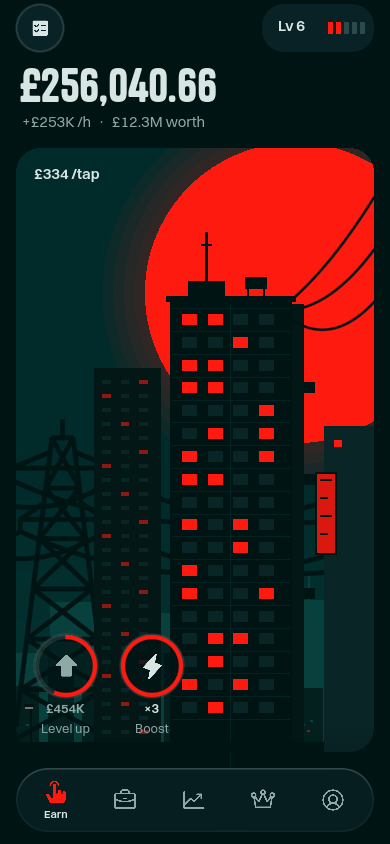
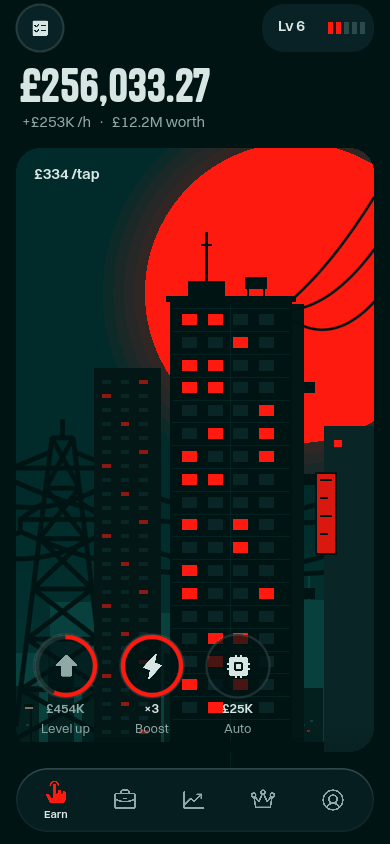
No deal pop-ups; auto clicker on Earn (save v16)
Owner: a deal popped up on every return; add an auto clicker upgrade.
- Deals never auto-show; they wait on the Business tab. Time away no
  longer counts towards the next deal. Pop-ups setting covers news only.
- Auto clicker: 5 levels (25K to 10B), a tap every 2 s down to 0.5 s,
  each worth half a tap, only while playing (pauses 2 min after the last
  touch, so an open phone can't farm). Reset by rebirth. Save v16.
- Robot buys levels under a tenth of cash: 90% day 39.3 (was 38.3).
- Tests: cost, rate, idle pause, v15 migration. All suites pass.

Claude-Session: https://claude.ai/code/session_01G43aEuqkjUy83khniNYyKE

Changed region(s): [[0.5231, 0.7393, 0.6462, 0.8934], [0.3077, 0.0616, 0.5538, 0.1232]]

diff --git a/docs/BALANCE.md b/docs/BALANCE.md
@@ -41,13 +41,14 @@ Companies: 17, sorted by price. New ones fill price gaps (Food trucks, Gym chain
 | Converting coins | sell at the usual 0.5% spread, then buy the other coin; nothing gained, so no loop | `convert_coin()` |
 | Mining | one pool of miners mining one coin you choose (switch free, any time); a miner earns 4% of its price an hour in £ for any coin (pays back in about a day), with no cap tied to income; each miner costs ×1.7 more, 40 max, which keeps mining to roughly 10 to 25% of income | `RIG_*`, `MINE_*` |
 | Head office | ten one-off upgrades: taps ×1.5, deals 25% sooner, away cap 10 h then 12 h, expansions 15% quicker (twice), +1 golden sun a day, locked coins +25%, miners +25%, managers take 6% | `UPGRADES` |
+| Auto clicker | 5 levels (£25K, £400K, £8M, £250M, £10B): a tap every 2, 1.5, 1, 0.75, 0.5 s, each worth half a tap (no big taps or Frenzy); only while playing, pauses 2 min after the last touch; reset by rebirth | `AUTO_LEVELS`, `auto_tick()` |
 | Golden sun | cash, Frenzy (taps ×5 for 20 s, not on top of ×3) or Rush (×2 income for 10 min, only while open) | `SUN_*`, `FRENZY_*`, `RUSH_S` |
 | Crits | 4% + 0.2% per level, ×5 | `CRIT_*` |
 | Time away | full income, capped at 8 hours | `OFFLINE_CAP_H` |
 | Goals | daily: 1.5 h of income each; weekly: 3 h each; waits to be claimed, amount fixed when earned | `daily_reward()`, `weekly_reward()`, `claim()` |
 | Achievements | 1 h of income each | `_check_achievements()` |
 | Daily streak | 0.15 h of income × days in a row (max 7) on the first open each day | `_check_streak()` |
-| Deals | small, every 12 to 25 minutes of play (time away counts up to 30 min); no buyer deal at a milestone count | `roll_deal()`, `DEAL_EVERY_MIN` |
+| Deals | small, every 12 to 25 minutes of play (time away doesn't count); never pop up, they wait on the Business tab; no buyer deal at a milestone count | `roll_deal()`, `DEAL_EVERY_MIN` |
 | Collections, homes, mergers | permanent multipliers | `bonus`, `HOME_BONUS`, `mult` |
 | Unit milestones | 5, 25, 50 units of one company: ×1.1, ×1.15, ×1.25 | `MILESTONES` |
 | Synergies | one-off buys: a company at stage N lifts another by 20 to 30% | `SYNERGIES` |

diff --git a/docs/DESIGN.md b/docs/DESIGN.md
@@ -97,6 +97,7 @@ No icon or logo inside a coloured tile or circle. Icons are Phosphor, drawn bare
 
 ## Small helpers players expect
 
+- Deals never pop up; they wait in a card on the Business tab.
 - Few dots, all round. A dot only means a reward is waiting to claim (Earn: goals and the daily gift; Profile: achievements) or an update is ready. Opening the tab clears its dot until something new arrives (`main._update_badges()`, seen counts in `Game.ui["dots_seen"]`). Nothing gets a dot just because you can afford it.
 - Page motion: detail pages slide in and back out on the same quint curve (0.38 s in, 0.32 s out), starting after the page is built so the first frames aren't skipped. Tabs cross-fade with a small slide. An open detail page fades away when you switch tab. Shares, Property and Crypto fade between each other. All of it respects Less motion.
 - Tapping the current tab scrolls back to the top.

diff --git a/CHANGELOG.md b/CHANGELOG.md
@@ -1,5 +1,15 @@
 # Changelog
 
+## No deal pop-ups, auto clicker
+
+- Deals never pop up by themselves any more: they wait on the Business tab
+  until you look. Time away no longer brings a deal closer.
+- New on Earn: Auto clicker. Buy it for £25K and upgrade it 4 times (up to
+  a tap every half second). Each auto tap is worth half a normal tap. It
+  runs while you play and pauses after 2 minutes without a touch. Save v16.
+- Settings > Pop-ups now only switches news pop-ups.
+- Robot: 90% day 39.3 (was 38.3), so it stays a help, not a shortcut.
+
 ## Hourly dividends, a simpler game, smoother running
 
 - Shares now pay dividends once an hour, on the hour, at a set rate per
